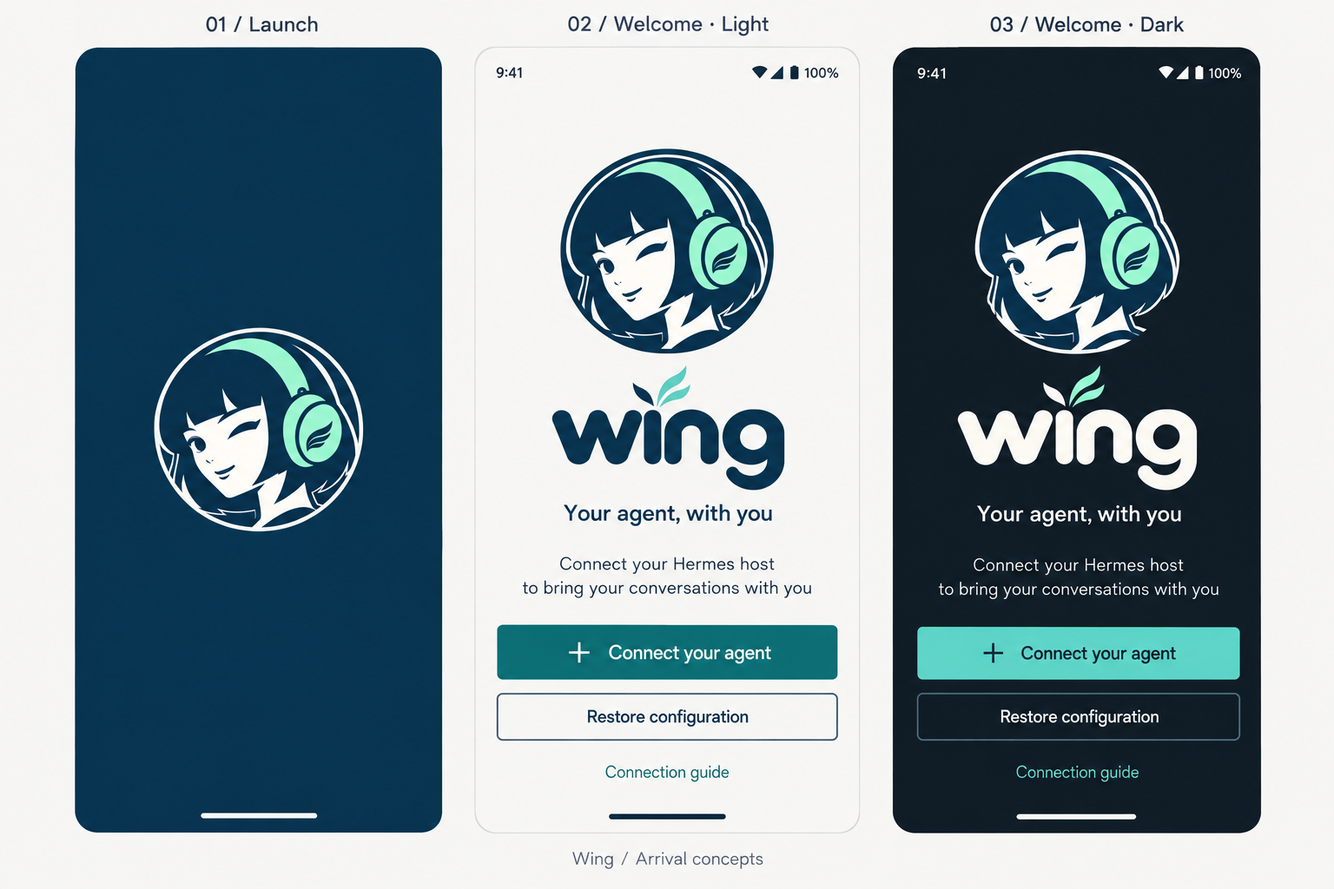
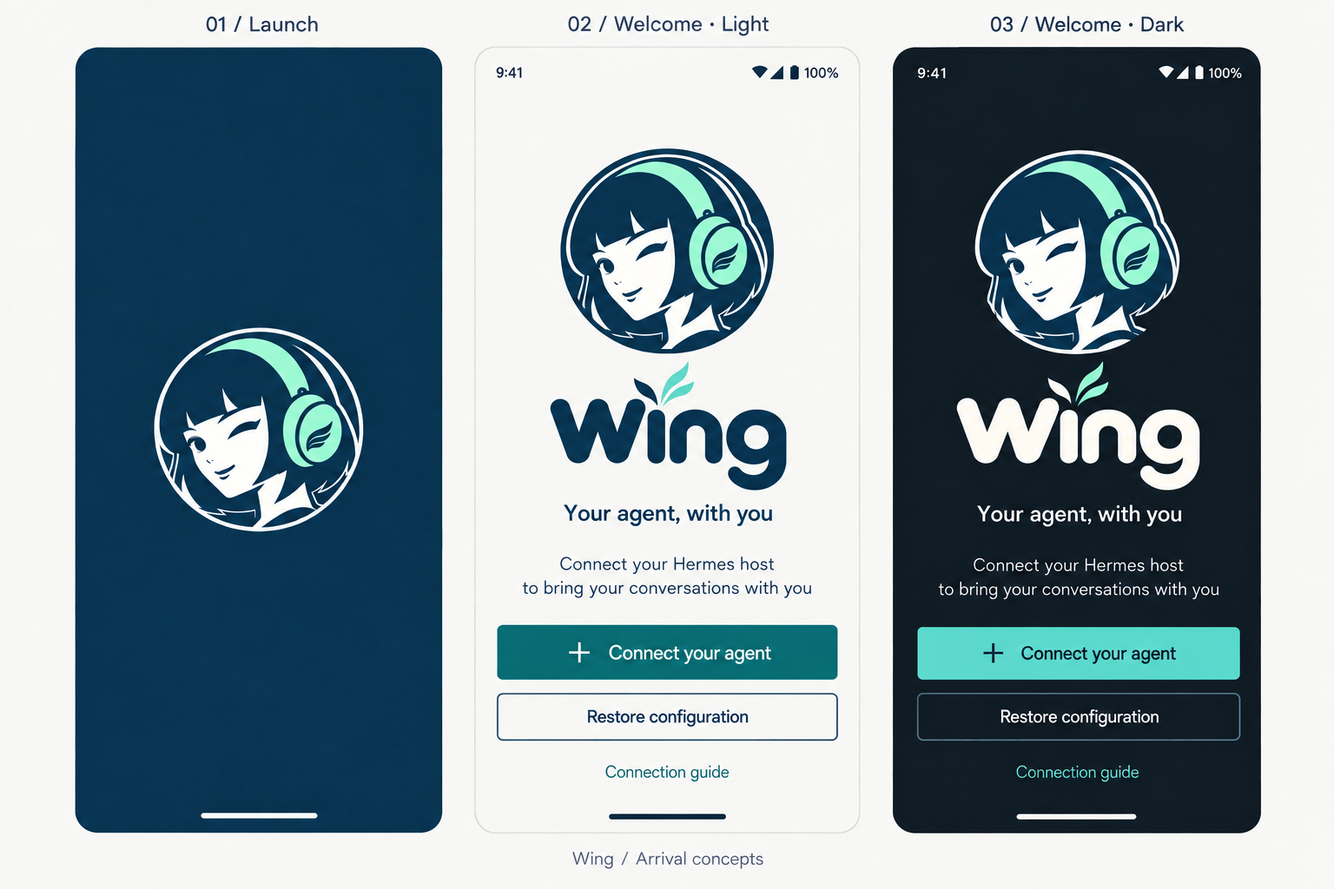
Capitalize Wing branding and update repository identity

diff --git a/lib/core/widgets/wing_wordmark.dart b/lib/core/widgets/wing_wordmark.dart
@@ -1,6 +1,6 @@
 import 'package:flutter/material.dart';
 
-/// Drawn lettering and feather accents from the approved Wing identity.
+/// Title-case Wing lettering and feathers from the approved identity.
 /// Kept as paths so the mark remains sharp at every display density.
 class WingWordmark extends StatelessWidget {
   const WingWordmark({super.key, this.width = 200});
@@ -41,13 +41,13 @@ class _WingPainter extends CustomPainter {
       ..strokeJoin = StrokeJoin.round;
     canvas.drawPath(
       Path()
-        ..moveTo(20, 91)
+        ..moveTo(20, 40)
         ..lineTo(53, 173)
         ..quadraticBezierTo(57, 183, 61, 173)
-        ..lineTo(96, 92)
+        ..lineTo(93, 65)
         ..lineTo(131, 173)
         ..quadraticBezierTo(135, 183, 139, 173)
-        ..lineTo(174, 91),
+        ..lineTo(164, 40),
       stroke,
     );
     canvas.drawLine(const Offset(216, 92), const Offset(216, 175), stroke);

diff --git a/lib/core/screens/connection_guide_screen.dart b/lib/core/screens/connection_guide_screen.dart
@@ -173,7 +173,7 @@ class ConnectionGuideScreen extends StatelessWidget {
                         onPressed: () async {
                           final opened = await openWebPreview(
                             Uri.parse(
-                              'https://github.com/tarkilhk/wing/blob/main/docs/GETTING_STARTED.md',
+                              'https://github.com/tarkilhk/Wing/blob/main/docs/GETTING_STARTED.md',
                             ),
                           );
                           if (!opened && context.mounted) {

diff --git a/lib/core/widgets/installed_app_version_card.dart b/lib/core/widgets/installed_app_version_card.dart
@@ -5,8 +5,8 @@ import 'package:package_info_plus/package_info_plus.dart';
 import '../services/web_preview.dart';
 import 'playful_portrait.dart';
 
-const _changelogUrl = 'https://github.com/tarkilhk/wing/blob/main/CHANGELOG.md';
-const _releasesUrl = 'https://github.com/tarkilhk/wing/releases';
+const _changelogUrl = 'https://github.com/tarkilhk/Wing/blob/main/CHANGELOG.md';
+const _releasesUrl = 'https://github.com/tarkilhk/Wing/releases';
 
 typedef AppVersionLinkOpener = Future<bool> Function(Uri uri);
 

diff --git a/test/installed_app_version_card_test.dart b/test/installed_app_version_card_test.dart
@@ -84,8 +84,8 @@ void main() {
     await tester.pump();
 
     expect(opened, [
-      Uri.parse('https://github.com/tarkilhk/wing/blob/main/CHANGELOG.md'),
-      Uri.parse('https://github.com/tarkilhk/wing/releases'),
+      Uri.parse('https://github.com/tarkilhk/Wing/blob/main/CHANGELOG.md'),
+      Uri.parse('https://github.com/tarkilhk/Wing/releases'),
     ]);
   });
 

diff --git a/docs/design/2026-09-17-wing-capitalization.md b/docs/design/2026-09-17-wing-capitalization.md
@@ -1,0 +1,53 @@
+# Wing capitalization
+
+On 17 September 2026, the owner requested **Wing** as the official identity
+throughout the design language and asked for the branding assets to be
+regenerated. Use a capital **W** followed by lowercase **ing** in the drawn
+wordmark as well as prose, app labels and repository identity.
+
+Keep the rounded lettering, three pointed feathers above the i, winking
+portrait and navy/cream/mint palette. The taller W makes the capitalization
+legible while retaining the existing width and baseline in the app.
+Package identifiers, native channels and file names remain lowercase.
+
+## Assets and implementation
+
+- [Identity board](images/wing-identity-board.png): regenerated brand board.
+- [README banner](images/wing-readme-hero-clean.png): regenerated masthead.
+- [Arrival concepts](images/wing-arrival-concepts.png): regenerated concept artwork, not a screenshot.
+- [Light welcome](images/wing-welcome-light.png) and
+  [dark welcome](images/wing-welcome-dark.png): actual Flutter widget renders.
+- [Production wordmark](../../lib/core/widgets/wing_wordmark.dart): scalable
+  lettering shared by welcome and connection guide screens.
+
+The portrait-only launcher and notification symbols contain no wordmark.
+Their production artwork remains the selected portrait, wing and caduceus.
+
+## Validation
+
+- Ten existing welcome, release-link and application-identity tests passed.
+- Both existing first-connection render tests passed; actual Flutter output was
+  inspected in light and dark themes at 360 dp with normal text and 320 dp with
+  doubled text. The larger-text layout scrolls to reach its actions.
+- The regenerated board, banner and concept artwork were visually inspected
+  for capitalization, feather accents, portrait continuity and copy.
+- Dart formatting checks and focused Flutter analysis passed for the changed
+  source and test files.
+
+## Regeneration prompts
+
+The three raster edits use the built-in image generation tool, each with its
+existing image as the edit target. The production wordmark is edited directly
+in its Flutter vector source, and welcome screenshots are rendered from Flutter.
+
+### board
+
+Use case: text-localization. Edit only the supplied existing Wing branding asset to adopt official title-case wordmark 'Wing', spelled capital W then lowercase i n g. The W must be visibly taller than lowercase i/n/g bodies, a true rounded capital W with four diagonal strokes, not an enlarged lowercase w or symbol. Keep rounded monoline character and baseline; preserve all three pointed feather accents over the lowercase i, one small left cream/navy feather and two mint right feathers, with a visible gap. Preserve the exact winking woman illustration, face, hair, headphones and earcup wing; preserve layout, other copy, colors #0C304A navy, #FFF9EB cream, #C6EED5 mint. No terminal periods on taglines. Do not add content. Edit target: identity board. Replace every lowercase wing wordmark in all THREE placements with 'Wing': main top right, lower middle splash card, lower right announcement card. Replace top-left '01 / WINK' heading with 'Wing'. Ensure cream palette hex caption reads exactly '#FFF9EB'. Keep remaining board structure, portrait, secondary mark, graphic element, swatches and typography specimen identical. Same 1536x1024 landscape framing.
+
+### hero
+
+Use case: text-localization. Edit only the supplied existing Wing branding asset to adopt official title-case wordmark 'Wing', spelled capital W then lowercase i n g. The W must be visibly taller than lowercase i/n/g bodies, a true rounded capital W with four diagonal strokes, not an enlarged lowercase w or symbol. Keep rounded monoline character and baseline; preserve all three pointed feather accents over the lowercase i, one small left cream/navy feather and two mint right feathers, with a visible gap. Preserve the exact winking woman illustration, face, hair, headphones and earcup wing; preserve layout, other copy, colors #0C304A navy, #FFF9EB cream, #C6EED5 mint. No terminal periods on taglines. Do not add content. Edit target: README hero banner. Replace only left wordmark 'wing' with 'Wing'. Preserve wide 3:1 aspect ratio, portrait on right, same two supporting lines verbatim: 'Your agent, with you' and 'An Android companion for Hermes Agent'. Preserve all margins and simple navy field.
+
+### arrival
+
+Use case: text-localization. Edit only the supplied existing Wing branding asset to adopt official title-case wordmark 'Wing', spelled capital W then lowercase i n g. The W must be visibly taller than lowercase i/n/g bodies, a true rounded capital W with four diagonal strokes, not an enlarged lowercase w or symbol. Keep rounded monoline character and baseline; preserve all three pointed feather accents over the lowercase i, one small left cream/navy feather and two mint right feathers, with a visible gap. Preserve the exact winking woman illustration, face, hair, headphones and earcup wing; preserve layout, other copy, colors #0C304A navy, #FFF9EB cream, #C6EED5 mint. No terminal periods on taglines. Do not add content. Edit target: three-panel arrival concept board. Replace both lowercase wing wordmarks in light and dark welcome panels with 'Wing'. Keep native launch panel unchanged and all phone UI labels, artwork and relative layout exactly as in original. Same 1536x1024 framing. This is only capitalization, no new UI.

diff --git a/docs/design/2026-09-15-wing-identity.md b/docs/design/2026-09-15-wing-identity.md
@@ -1,9 +1,10 @@
 # Wing identity
 
-Approved by the owner on 15 September 2026. This is the selected identity within
-the [Studio design system](../DESIGN_SYSTEM.md).
+Selected by the owner on 15 September 2026, with official **Wing** capitalization
+requested on 17 September 2026. This is the selected identity within the
+[Studio design system](../DESIGN_SYSTEM.md).
 
-![Approved Wing identity board](images/wing-identity-board.png)
+![Wing identity board with the capital-W wordmark](images/wing-identity-board.png)
 
 ## Notification identity board
 
@@ -21,7 +22,7 @@ owns the source paths and Android usage.
 ## Name and wordmark
 
 - Write **Wing** in prose, app titles, launcher labels, store listings and accessibility labels. Use **Wing Dev** for development builds.
-- The drawn wordmark is lowercase **wing**, with rounded letters. Keep all four letters; the w is a letter, not a rotated or crossed wing symbol.
+- The drawn wordmark reads **Wing**: capital **W**, lowercase **ing**, with rounded letters. The W rises above the lowercase letter bodies. Keep all four letters; the W is a letter, not a rotated or crossed wing symbol. This owner decision of 17 September 2026 supersedes the earlier lowercase wordmark.
 - Above the i, use three solid, curved, pointed feather shapes derived from the original single-wing emblem. One small feather points up-left; two point up-right. The left feather is navy on cream and cream on navy. The two right feathers are mint.
 - Use the compact accent proportions in this board. The final refinement requested an approximately 18% reduction from the previous cluster and slightly tighter gaps. The accepted image is the visual reference; that percentage is an editing direction, not a measured vector specification.
 - Keep visible gaps between feathers and above the i stem. The word should read before the accent draws attention.
@@ -48,16 +49,18 @@ the owner on 16 September 2026. See the
 
 These colors belong to the artwork. Studio screen tokens and user accent
 preferences continue to govern controls. Rounded lettering and circular portrait
-masks remain part of the identity. The board's “Wink” heading is the original
-concept name; the product name is Wing. “Your agent, with you” is the selected
+masks remain part of the identity. Use **Wing** for brand-board headings and
+product references. “Your agent, with you” is the selected
 tagline, and “A familiar face” is supporting copy. Omit terminal periods from
 brand-card and banner copy. Retain the comma in the tagline.
 
 ## Source and implementation boundary
 
 The checked-in [board](images/wing-identity-board.png) is the approved raster
-design reference. The [final refinement prompt](2026-09-15-wing-identity-prompt.md)
-records its generation direction. Earlier experimental boards are unselected.
+design reference, regenerated for the capital-W identity. The
+[capitalization prompts](2026-09-17-wing-capitalization.md) record this update;
+the [feather refinement prompt](2026-09-15-wing-identity-prompt.md) records the
+original accent direction. Earlier experimental boards are unselected.
 The board does not identify a verified font family. The
 [WingWordmark](../../lib/core/widgets/wing_wordmark.dart) widget now provides
 scalable drawn lettering and feather paths for the approved arrival screens.
@@ -74,16 +77,21 @@ Wing is the independent client. Hermes Agent remains the server product, so
 connection, administration and agent-state references use Hermes where they
 identify the server. Preserve upstream author attribution.
 
-Use release application ID `com.tarkilhk.wing`, development ID
+Technical identifiers remain lowercase; their spelling is independent of the
+capitalized public identity. Use release application ID `com.tarkilhk.wing`, development ID
 `com.tarkilhk.wing.dev`, Dart package `wing` and native namespace
 `com.tarkilhk.wing`. App classes, theme tokens, native channels, notifications,
 secure-storage namespaces, backup formats and build tooling use Wing names.
 
-This is a clean identity change. Android installs Wing under its new application
+The original Hermes-to-Wing change introduced a separate application identity.
+Android installs Wing under its application
 ID with separate local data. Backup imports accept only the Wing format, and the
 turn journal accepts only its current schema. There are no aliases or migration
 paths for the previous identity.
 
-The repository is [`tarkilhk/wing`](https://github.com/tarkilhk/wing).
+The 17 September capitalization update changes public branding only; it does
+not change the application ID, stored data formats or signing identity.
+
+The repository is [`tarkilhk/Wing`](https://github.com/tarkilhk/Wing).
 The Git remote, app release/changelog links and documentation point directly to
 this repository. Release workflows use the current GitHub repository context.

diff --git a/README.md b/README.md
@@ -10,7 +10,7 @@ Continue conversations, check on running work, and send your next idea from your
 
 Wing connects to your own [Hermes Agent](https://github.com/NousResearch/hermes-agent) server. You'll need Android 7.0 or later and a compatible server to get started.
 
-[**Download for Android**](https://github.com/tarkilhk/wing/releases/latest) · [Setup guide](docs/GETTING_STARTED.md) · [Documentation](docs/README.md)
+[**Download for Android**](https://github.com/tarkilhk/Wing/releases/latest) · [Setup guide](docs/GETTING_STARTED.md) · [Documentation](docs/README.md)
 
 <a id="screenshots"></a>
 
@@ -31,7 +31,7 @@ Wing connects to your own [Hermes Agent](https://github.com/NousResearch/hermes-
   </tr>
 </table>
 
-App previews rendered from Wing's Flutter interface with sample data on 16 September 2026. Both light and dark themes are available.
+App previews rendered from Wing's Flutter interface: conversation with sample data on 16 September 2026, welcome with the updated Wing wordmark on 17 September. Both light and dark themes are available.
 
 ## What you can do
 
@@ -45,7 +45,7 @@ App previews rendered from Wing's Flutter interface with sample data on 16 Septe
 ## Get started
 
 1. Have a compatible Hermes server reachable from your phone.
-2. Install a signed APK from the [latest release](https://github.com/tarkilhk/wing/releases/latest). Choose **arm64-v8a** for most current phones; other builds and checksums are listed with the release.
+2. Install a signed APK from the [latest release](https://github.com/tarkilhk/Wing/releases/latest). Choose **arm64-v8a** for most current phones; other builds and checksums are listed with the release.
 3. Follow the [setup guide](docs/GETTING_STARTED.md) to start the authenticated dashboard, add a connection and send your first message.
 
 The modern dashboard and Desktop Gateway are required. An API key for the older API-only transport is not sufficient. Use HTTPS or an encrypted private network for remote access.
@@ -72,12 +72,12 @@ For design contributions, see the [Wing identity and artwork](docs/design/2026-0
 <details>
 <summary>App identity and the repository name</summary>
 
-The approved wordmark uses lowercase **wing**; the app name is **Wing**, or **Wing Dev** for development builds.
+The official name and wordmark are **Wing**, with a capital **W**. Development builds use **Wing Dev**. Package identifiers remain lowercase.
 
 - Release package: `com.tarkilhk.wing`.
 - Ordinary debug package: `com.tarkilhk.wing.dev`. Signed development builds can use the release package, as described in the [release guide](docs/ANDROID_RELEASE_PLAN.md#identity-and-versioning).
 - Wing uses a new application ID with separate local data. Backups and recovery journals from the previous identity are not migrated.
-- Repository: `tarkilhk/wing`.
+- Repository: `tarkilhk/Wing`.
 - Wing's package and signing identity are separate from the original Hermes Android client.
 
 [pubspec.yaml](pubspec.yaml) declares the source version. App settings shows the installed version. Source changes do not imply a published APK.
@@ -94,6 +94,6 @@ Completely optional. Every feature is available either way.
 
 ## Support and provenance
 
-Found a client problem? [Open an issue](https://github.com/tarkilhk/wing/issues) with reproducible steps, following the [redaction guidance](SECURITY.md). The [privacy policy](PRIVACY.md) covers storage, server processing, dictation and deletion, and is available offline in App settings.
+Found a client problem? [Open an issue](https://github.com/tarkilhk/Wing/issues) with reproducible steps, following the [redaction guidance](SECURITY.md). The [privacy policy](PRIVACY.md) covers storage, server processing, dictation and deletion, and is available offline in App settings.
 
 Wing is an independently developed Android companion for Hermes Agent, built on the open-source work of [rusty4444](https://github.com/rusty4444) and the Hermes Android contributors. Licensed under [MIT](LICENSE). See [NOTICE.md](NOTICE.md) for credits and third-party notices.

diff --git a/docs/design/2026-09-15-wing-readme-hero-prompt.md b/docs/design/2026-09-15-wing-readme-hero-prompt.md
@@ -1,5 +1,9 @@
 # Wing README hero
 
+Capitalization update, 17 September 2026: the wordmark reads **Wing**, with
+a capital W and lowercase ing. See the
+[regeneration prompts](2026-09-17-wing-capitalization.md).
+
 Final composition edit: remove the two oversized mint feathers behind the
 portrait and fill that area with plain navy. Keep the small feathers above the
 i and the earcup wing. This supersedes the optional background decoration in
@@ -13,6 +17,6 @@ Adaptation of the approved [identity board](images/wing-identity-board.png) for 
 
 Create a polished GitHub README hero banner adapted from the attached APPROVED Wing identity board. This image is the reference for exact artwork and brand style, not a request to create another board. Output one wide landscape banner, aspect ratio 3:1, ideally 1920x640. Flat deep navy background #0C304A, cream #FFF9EB and mint #C6EED5 artwork, crisp graphic edges, no texture or shadows.
 
-Composition: generous breathing room. On the left half place the exact rounded lowercase 'wing' wordmark in cream, with the approved COMPACT three pointed curved feather accents above the i, one small cream feather up-left and two mint feathers up-right, matching the lower-middle wordmark in the reference. Preserve rounded letterforms and relatively small accent size. Below it, exact tagline 'Your agent, with you.' in cream, plain rounded sans. Below that smaller restrained mint text 'An Android companion for Hermes Agent'. Place the original winking woman portrait on the right third, large and elegantly cropped at the bottom, dark bob, mint headphones and original single three-feather wing emblem on the earcup. Preserve the face and wink and original illustration identity. A very subtle oversized pair of pointed mint feather silhouettes can sit behind the far right crop only if it improves the composition, but keep the main field uncluttered.
+Composition: generous breathing room. On the left half place the rounded title-case 'Wing' wordmark in cream, with the approved COMPACT three pointed curved feather accents above the i, one small cream feather up-left and two mint feathers up-right, matching the lower-middle wordmark in the reference. Preserve rounded letterforms and relatively small accent size. Below it, exact tagline 'Your agent, with you.' in cream, plain rounded sans. Below that smaller restrained mint text 'An Android companion for Hermes Agent'. Place the original winking woman portrait on the right third, large and elegantly cropped at the bottom, dark bob, mint headphones and original single three-feather wing emblem on the earcup. Preserve the face and wink and original illustration identity. A very subtle oversized pair of pointed mint feather silhouettes can sit behind the far right crop only if it improves the composition, but keep the main field uncluttered.
 
-Do not include board grid, swatches, app screenshots, phones, badges, buttons, labels like Wink, or any extra text. Do not redesign the logo, replace the w by a symbol, change hairstyle, add rounded droplet accents, or add realistic shading. This is a confident simple brand masthead using the already approved assets.
+Do not include board grid, swatches, app screenshots, phones, badges, buttons, labels like Wink, or any extra text. Do not redesign the logo, replace the W by a symbol, change hairstyle, add rounded droplet accents, or add realistic shading. This is a confident simple brand masthead using the already approved assets.

diff --git a/docs/design/2026-09-15-wing-identity-prompt.md b/docs/design/2026-09-15-wing-identity-prompt.md
@@ -1,5 +1,9 @@
 # Compact wordmark accents
 
+Capitalization update, 17 September 2026: every wordmark reads **Wing**, with
+a capital W and lowercase ing. This supersedes the original lowercase wording
+below. See the [regeneration prompts](2026-09-17-wing-capitalization.md).
+
 Final punctuation edit: remove the four terminal periods after the two instances
 of “A familiar face” and the two instances of “Your agent, with you”. Preserve
 the comma, lettering, layout and artwork. This supersedes punctuation in the
@@ -7,6 +11,6 @@ original prompt below.
 
 Precise edit of the attached accepted Wing brand board. Make ONLY a subtle optical refinement to the THREE FEATHER ACCENTS ABOVE THE LOWERCASE i in all three wordmarks: the large top wordmark, the cream-on-navy lower-middle splash-card wordmark, and the small lower-right announcement wordmark.
 
-Reduce the three-feather cluster to about 82% of its current width and height (18% smaller), scaling around its lower anchor immediately above the i. Slightly tighten the internal gaps between the individual feathers, while preserving clearly visible separation and a small clear gap from the i stem. The cluster should feel like a compact dot accent, allowing the word wing to read first. Preserve precisely the pointed curved blade silhouettes, relative feather sizes and fan directions: ONE small left feather pointing up-left, TWO right feathers pointing up-right. Preserve color assignment: left navy on cream or cream on navy; two right mint. Three feathers remain visible. No rounded droplets, no additional dot, no joining feathers to letters.
+Reduce the three-feather cluster to about 82% of its current width and height (18% smaller), scaling around its lower anchor immediately above the i. Slightly tighten the internal gaps between the individual feathers, while preserving clearly visible separation and a small clear gap from the i stem. The cluster should feel like a compact dot accent, allowing the word Wing to read first. Preserve precisely the pointed curved blade silhouettes, relative feather sizes and fan directions: ONE small left feather pointing up-left, TWO right feathers pointing up-right. Preserve color assignment: left navy on cream or cream on navy; two right mint. Three feathers remain visible. No rounded droplets, no additional dot, no joining feathers to letters.
 
 Everything else remains unchanged: the letterforms, wordmark size, position, spacing and rounded ends; all portraits; the original single-wing secondary mark; the large three-feather specimen in the GRAPHIC ELEMENT panel; the two enlarged pointed mint feathers on the splash card; the navy cream mint palette; the grid, text, headings, swatches and type specimen. Do not resize the large decorative feathers: this refinement is ONLY to the i accents at the three wordmark locations. Preserve the entire landscape board, with crisp smooth edges.

diff --git a/docs/BUG_TRACKER.md b/docs/BUG_TRACKER.md
@@ -4,15 +4,15 @@ These issues track documented client defects and backend reliability gaps. Statu
 
 | ID | GitHub issue | Status at this cleanup |
 | --- | --- | --- |
-| R1 | [Prevent dashboard redirects from forwarding session credentials](https://github.com/tarkilhk/wing/issues/1) | Fixed in source |
-| B2 | [Prevent queued attachments from being consumed by an unacknowledged send](https://github.com/tarkilhk/wing/issues/2) | Fixed in source |
-| B1 | [Persist normal-send uncertainty before dispatch so process death cannot restore a misleading draft](https://github.com/tarkilhk/wing/issues/3) | Open |
-| R2 | [Bound dashboard discovery and download requests with cancellation and deadlines](https://github.com/tarkilhk/wing/issues/4) | Open |
-| HUP-001 | [[Backend] Browser and vault target different tabs](https://github.com/tarkilhk/wing/issues/5) | Open |
-| HUP-002 | [[Backend] Non-default profile loop command/control mismatch](https://github.com/tarkilhk/wing/issues/6) | Open |
-| HUP-003 | [[Backend] Global activity omits child-only work](https://github.com/tarkilhk/wing/issues/7) | Open |
-| HUP-004 | [[Backend] Windows profile deletion fails after MCP activity](https://github.com/tarkilhk/wing/issues/8) | Open |
-| N1 | [Connected-app notifications can miss turns between status snapshots](https://github.com/tarkilhk/wing/issues/9) | Open |
+| R1 | [Prevent dashboard redirects from forwarding session credentials](https://github.com/tarkilhk/Wing/issues/1) | Fixed in source |
+| B2 | [Prevent queued attachments from being consumed by an unacknowledged send](https://github.com/tarkilhk/Wing/issues/2) | Fixed in source |
+| B1 | [Persist normal-send uncertainty before dispatch so process death cannot restore a misleading draft](https://github.com/tarkilhk/Wing/issues/3) | Open |
+| R2 | [Bound dashboard discovery and download requests with cancellation and deadlines](https://github.com/tarkilhk/Wing/issues/4) | Open |
+| HUP-001 | [[Backend] Browser and vault target different tabs](https://github.com/tarkilhk/Wing/issues/5) | Open |
+| HUP-002 | [[Backend] Non-default profile loop command/control mismatch](https://github.com/tarkilhk/Wing/issues/6) | Open |
+| HUP-003 | [[Backend] Global activity omits child-only work](https://github.com/tarkilhk/Wing/issues/7) | Open |
+| HUP-004 | [[Backend] Windows profile deletion fails after MCP activity](https://github.com/tarkilhk/Wing/issues/8) | Open |
+| N1 | [Connected-app notifications can miss turns between status snapshots](https://github.com/tarkilhk/Wing/issues/9) | Open |
 
 The credential redirect and queued attachment fixes passed regression tests in this checkout. Their issues link to the commit that integrates the fixes. This record does not claim a published release.
 

diff --git a/docs/KNOWN_LIMITATIONS.md b/docs/KNOWN_LIMITATIONS.md
@@ -6,13 +6,13 @@ These limits describe the current client. The [product plan](PRODUCT_PLAN.md) co
 
 The app requires the modern Hermes dashboard, profile/session APIs and Desktop Gateway. Older API-only/SSE installations are not supported by the active workspace. Capabilities depend on the server and provider. A slash command appearing in a catalog does not establish that it works from Android. Terminal-only, messaging-only and host-microphone operations retain those restrictions.
 
-Some dashboard requests still lack a transport deadline. A host that accepts a connection but never answers can leave connection setup or a download pending. Tracked in [issue #4](https://github.com/tarkilhk/wing/issues/4).
+Some dashboard requests still lack a transport deadline. A host that accepts a connection but never answers can leave connection setup or a download pending. Tracked in [issue #4](https://github.com/tarkilhk/Wing/issues/4).
 
 ## Leaving the app and recovering work
 
 Hermes runs accepted work on the server. The phone must be running and connected to drain its unsent follow-up queue or generate local alerts. Foreground monitoring keeps the app engine and opened connections alive while chats are working; waiting questions keep their notifications after monitoring stops. Work started elsewhere while Wing is idle cannot wake it. Screen-off delivery requires allowing background battery use. Unopened chats still have limited event coverage. Force-stop, process termination, reboot and connectivity loss can interrupt monitoring. See [background notifications](BACKGROUND_NOTIFICATIONS.md).
 
-If Android closes after a normal send reaches Hermes but before its acknowledgement arrives, the retained draft can return without an uncertainty warning. Check server history before sending that draft again. The client does not automatically resend it. This affects the acknowledgement window; it does not mean every reconnect duplicates a message. Tracked in [issue #3](https://github.com/tarkilhk/wing/issues/3).
+If Android closes after a normal send reaches Hermes but before its acknowledgement arrives, the retained draft can return without an uncertainty warning. Check server history before sending that draft again. The client does not automatically resend it. This affects the acknowledgement window; it does not mean every reconnect duplicates a message. Tracked in [issue #3](https://github.com/tarkilhk/Wing/issues/3).
 
 Pending sensitive requests, side tasks and synchronized answer-version recovery depend on server capabilities. See [Sensitive input and side questions](SUPERVISION_AND_QUEUES.md#sensitive-input-and-approvals) and [Server chat relationships](SERVER_CHAT_RELATIONSHIPS.md). Client fixtures do not establish live-server support.
 

diff --git a/PRIVACY.md b/PRIVACY.md
@@ -2,7 +2,7 @@
 
 Effective date: 17 September 2026.
 
-This policy covers Wing (`com.tarkilhk.wing`), maintained by [tarkilhk and the Wing contributors](https://github.com/tarkilhk/wing). It is an independent Android client for a Hermes server you choose. The app does not require an account with Wing's maintainer. Your Hermes host, model providers, and services used by your agent have their own data practices.
+This policy covers Wing (`com.tarkilhk.wing`), maintained by [tarkilhk and the Wing contributors](https://github.com/tarkilhk/Wing). It is an independent Android client for a Hermes server you choose. The app does not require an account with Wing's maintainer. Your Hermes host, model providers, and services used by your agent have their own data practices.
 
 ## Data the app handles
 
@@ -43,8 +43,8 @@ Configuration exports contain saved connections and credentials. A passphrase is
 
 ## Contact and policy changes
 
-For general privacy questions, contact the maintainer through [Wing's GitHub issues](https://github.com/tarkilhk/wing/issues). Do not post passwords, private server addresses, personal files or conversation contents publicly. Ask for a private contact route before sharing sensitive details.
+For general privacy questions, contact the maintainer through [Wing's GitHub issues](https://github.com/tarkilhk/Wing/issues). Do not post passwords, private server addresses, personal files or conversation contents publicly. Ask for a private contact route before sharing sensitive details.
 
-For a suspected security vulnerability, use [GitHub's private vulnerability reporting](https://github.com/tarkilhk/wing/security/advisories/new). GitHub processes information you submit through these channels under its own privacy policy.
+For a suspected security vulnerability, use [GitHub's private vulnerability reporting](https://github.com/tarkilhk/Wing/security/advisories/new). GitHub processes information you submit through these channels under its own privacy policy.
 
 The effective date above changes when this policy changes. The app bundles the policy so you can read it in App settings without connecting to a server. The repository contains the policy for the source version you are viewing; a different release or independently configured build may have different behavior.
